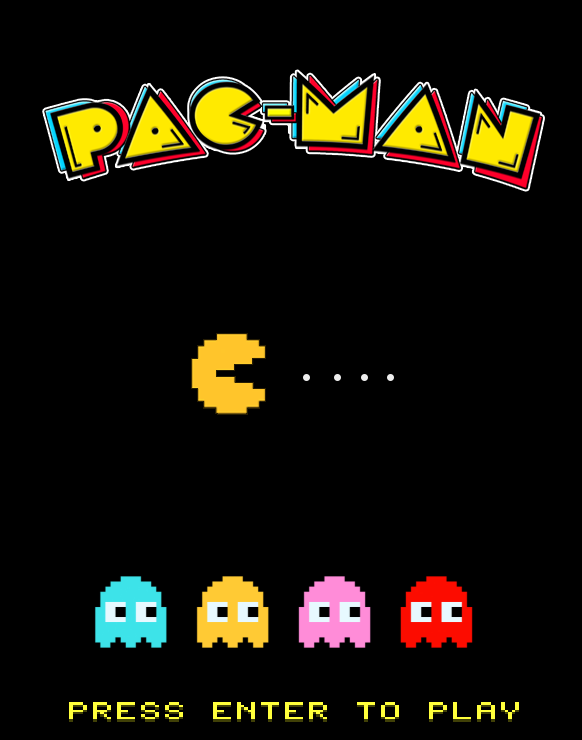
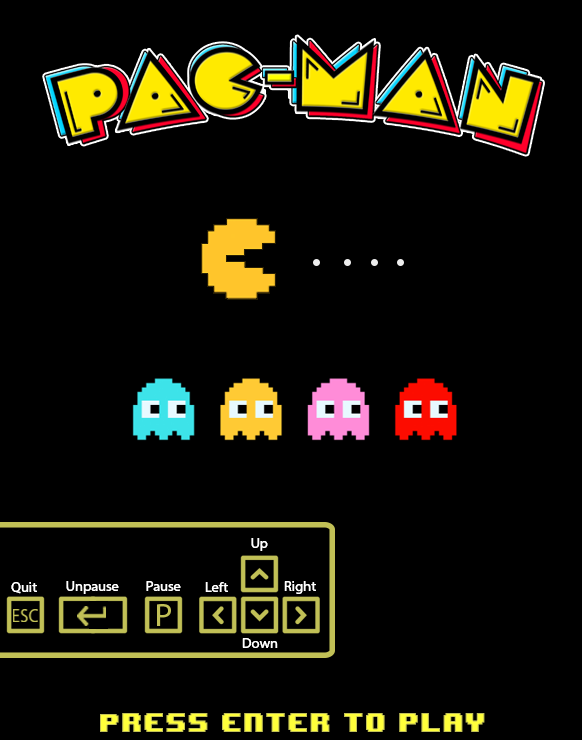
Finished the main menu controls guide

diff --git a/Characters/Pacman.cpp b/Characters/Pacman.cpp
@@ -37,35 +37,35 @@ void Pacman::PickingUpPillHandler(Map &map) {
 
 /**
  * Sets the texture of pacman to correctly show which direction it is traveling.
- * @param srect An array of SDL_Rects that contains the different places in the spritesheet we have to look to get the correct pacman graphic.
+ * @param m_movementSrcRect An array of SDL_Rects that contains the different places in the spritesheet we have to look to get the correct pacman graphic.
  */
-void Pacman::renderCharacter(SDL_Rect srect[]) {
+void Pacman::renderCharacter() {
     m_texture = IMG_LoadTexture(GameManager::renderer, "../Resources/Images/PacManSpriteSheet_20x20.png");
     ///Using a timer to display the correct part of the animation.
     m_timer += GameManager::deltaTime;
     if (m_timer <= 0.1) {
         m_animationNumber = 0;
-        srect[0].x = TILE_SIZE;
-        srect[0].y = TILE_SIZE;
-        srect[0].h = TILE_SIZE;
-        srect[0].w = TILE_SIZE;
+        m_movementSrcRect[0].x = TILE_SIZE;
+        m_movementSrcRect[0].y = TILE_SIZE;
+        m_movementSrcRect[0].h = TILE_SIZE;
+        m_movementSrcRect[0].w = TILE_SIZE;
     } else if (m_timer <= 0.2) {
         m_animationNumber = 1;
-        srect[1].x = 0;
-        srect[1].y = TILE_SIZE;
-        srect[1].h = TILE_SIZE;
-        srect[1].w = TILE_SIZE;
+        m_movementSrcRect[1].x = 0;
+        m_movementSrcRect[1].y = TILE_SIZE;
+        m_movementSrcRect[1].h = TILE_SIZE;
+        m_movementSrcRect[1].w = TILE_SIZE;
     } else if (m_timer <= 0.3) {
         m_animationNumber = 2;
-        srect[2].x = TILE_SIZE * 2;
-        srect[2].y = 0;
-        srect[2].h = TILE_SIZE;
-        srect[2].w = TILE_SIZE;
+        m_movementSrcRect[2].x = TILE_SIZE * 2;
+        m_movementSrcRect[2].y = 0;
+        m_movementSrcRect[2].h = TILE_SIZE;
+        m_movementSrcRect[2].w = TILE_SIZE;
         if (m_timer <= 0.4) {
             m_timer = 0;
         }
     }
-    SDL_RenderCopyEx(GameManager::renderer, m_texture, &srect[m_animationNumber], &m_coordinates, m_angle, &m_center,
+    SDL_RenderCopyEx(GameManager::renderer, m_texture, &m_movementSrcRect[m_animationNumber], &m_coordinates, m_angle, &m_center,
                      SDL_FLIP_NONE);
     SDL_DestroyTexture(m_texture);
 }
@@ -104,51 +104,51 @@ void Pacman::checkMovementInput(Map &map) {
 
 /**
  * Progressively cycles through the death animation of pacman.
- * @param srect An array of SDL_Rects that contains the different places in the spritesheet we have to look to get the correct pacman graphic.
+ * @param m_DeathAnimationRect An array of SDL_Rects that contains the different places in the spritesheet we have to look to get the correct pacman graphic.
  */
-void Pacman::ripPacman(SDL_Rect srect[]) {
+void Pacman::ripPacman() {
     int deathPosition = TILE_SIZE * 10;
     m_texture = IMG_LoadTexture(GameManager::renderer, "../Resources/Images/PacManSpriteSheet_20x20.png");
     ///Using a timer to display the correct part of the animation.
     m_timer += GameManager::deltaTime;
     if (m_timer <= 0) {
         m_animationNumber = 0;
-        srect[0].x = TILE_SIZE * 0;
-        srect[0].y = deathPosition;
-        srect[0].h = TILE_SIZE;
-        srect[0].w = TILE_SIZE;
+        m_DeathSrcRect[0].x = TILE_SIZE * 0;
+        m_DeathSrcRect[0].y = deathPosition;
+        m_DeathSrcRect[0].h = TILE_SIZE;
+        m_DeathSrcRect[0].w = TILE_SIZE;
     } else if (m_timer <= 0.8) {
         m_animationNumber = 1;
-        srect[1].x = TILE_SIZE * 2;
-        srect[1].y = deathPosition;
-        srect[1].h = TILE_SIZE;
-        srect[1].w = TILE_SIZE;
+        m_DeathSrcRect[1].x = TILE_SIZE * 2;
+        m_DeathSrcRect[1].y = deathPosition;
+        m_DeathSrcRect[1].h = TILE_SIZE;
+        m_DeathSrcRect[1].w = TILE_SIZE;
     } else if (m_timer <= 1.6) {
         m_animationNumber = 2;
-        srect[2].x = TILE_SIZE * 4;
-        srect[2].y = deathPosition;
-        srect[2].h = TILE_SIZE;
-        srect[2].w = TILE_SIZE;
+        m_DeathSrcRect[2].x = TILE_SIZE * 4;
+        m_DeathSrcRect[2].y = deathPosition;
+        m_DeathSrcRect[2].h = TILE_SIZE;
+        m_DeathSrcRect[2].w = TILE_SIZE;
     } else if (m_timer <= 2.4) {
         m_animationNumber = 3;
-        srect[3].x = TILE_SIZE * 6;
-        srect[3].y = deathPosition;
-        srect[3].h = TILE_SIZE;
-        srect[3].w = TILE_SIZE;
+        m_DeathSrcRect[3].x = TILE_SIZE * 6;
+        m_DeathSrcRect[3].y = deathPosition;
+        m_DeathSrcRect[3].h = TILE_SIZE;
+        m_DeathSrcRect[3].w = TILE_SIZE;
     } else if (m_timer <= 3.2) {
         m_animationNumber = 4;
-        srect[4].x = TILE_SIZE * 8;
-        srect[4].y = deathPosition;
-        srect[4].h = TILE_SIZE;
-        srect[4].w = TILE_SIZE;
+        m_DeathSrcRect[4].x = TILE_SIZE * 8;
+        m_DeathSrcRect[4].y = deathPosition;
+        m_DeathSrcRect[4].h = TILE_SIZE;
+        m_DeathSrcRect[4].w = TILE_SIZE;
     } else if (m_timer <= 4) {
         m_animationNumber = 5;
-        srect[5].x = TILE_SIZE * 9;
-        srect[5].y = deathPosition;
-        srect[5].h = TILE_SIZE;
-        srect[5].w = TILE_SIZE;
+        m_DeathSrcRect[5].x = TILE_SIZE * 9;
+        m_DeathSrcRect[5].y = deathPosition;
+        m_DeathSrcRect[5].h = TILE_SIZE;
+        m_DeathSrcRect[5].w = TILE_SIZE;
     }
-    SDL_RenderCopy(GameManager::renderer, m_texture, &srect[m_animationNumber], &m_coordinates);
+    SDL_RenderCopy(GameManager::renderer, m_texture, &m_DeathSrcRect[m_animationNumber], &m_coordinates);
     SDL_DestroyTexture(m_texture);
 }
 

diff --git a/Characters/Pacman.h b/Characters/Pacman.h
@@ -7,10 +7,13 @@
 class Pacman : public GameCharacter {
 private:
     int m_points = 0;
-    int m_pacHealth = 1;
+    int m_pacHealth = 3;
     double m_powerUpDuration = 5;
     bool m_lastLife = false;
 
+    ///animation Source rects for pacman
+    SDL_Rect m_movementSrcRect[3];
+    SDL_Rect m_DeathSrcRect[6];
 
     ///Angle is used to rotate the picture we use as texture to correctly display the direction the character is moving.
     double m_angle = 0;
@@ -25,11 +28,9 @@ public:
 
     void PickingUpPillHandler(Map &map);
 
-    void renderCharacter(SDL_Rect *srect) override;
-
     void checkMovementInput(Map &map);
 
-    void ripPacman(SDL_Rect *srect);
+    void ripPacman();
 
     void moveToStartPos();
 
@@ -43,6 +44,7 @@ public:
 
     SDL_Rect *getCoords() { return &m_coordinates; }
 
+    void renderCharacter();
 };
 
 

diff --git a/Managers/GameManager.cpp b/Managers/GameManager.cpp
@@ -91,7 +91,7 @@ void GameManager::render() {
 
     m_textManager.displayPoints(m_pacman.getPoints());
     m_level->drawMap();
-    m_pacman.renderCharacter(m_srect);
+    m_pacman.renderCharacter();
 
     for (const auto &ghost: m_ghosts) {
         ghost->renderCharacter(m_pacman);
@@ -153,9 +153,9 @@ void GameManager::gameOverState() {
     SDL_SetRenderDrawColor(renderer, 0, 0, 0, 0);
     m_level->drawMap();
     if (m_timer <= 5) {
-        m_pacman.ripPacman(m_deathRect);
+        m_pacman.ripPacman();
         SDL_RenderPresent(renderer);
-    } else if (m_timer > 5 && m_timer <= 8) {
+    } else if (m_timer > 5 && m_timer <= 20) {
         m_textManager.displayGameOverText(m_pacmanWon);
         SDL_RenderPresent(renderer);
     } else {

diff --git a/Managers/GameManager.h b/Managers/GameManager.h
@@ -29,9 +29,6 @@ private:
     RenderManager renderManager;
     TextManager m_textManager= TextManager("../Resources/Fonts/8-BIT.TTF", 1 * TILE_SIZE,{255, 255, 0, 255});
     SoundManager m_soundManager;
-    ///animation Source rects for pacman
-    SDL_Rect m_srect[3];
-    SDL_Rect m_deathRect[6];
     std::chrono::high_resolution_clock::time_point m_lastFrame = std::chrono::high_resolution_clock::now();
     int m_gameState = 1;
     double m_timer = 0;

diff --git a/Map.cpp b/Map.cpp
@@ -6,7 +6,7 @@ Map::Map(const char *filePath) {
 }
 
 void Map::loadMap(const char *filePath) {
-    Tile tmp("../Resources/Images/Pacman_Tileset_Pink_20x20.png");
+    Tile tmp("../Resources/Images/Pacman_Tileset_20x20.png");
     int currentTileValue, xAxisOfTileset, yAxisOfTileset;
     std::ifstream input(filePath); ///Our mainLevel.txt file
     if (!input.is_open()) {

diff --git a/Characters/GameCharacter.h b/Characters/GameCharacter.h
@@ -39,9 +39,7 @@ public:
 
     GameCharacter(int xs, int ys, int speed);
 
-    void setDirection(direction dir);
-
-    virtual void renderCharacter(SDL_Rect srect[]) {};
+    virtual void renderCharacter() {};
 
     void characterHandler(Map &map);
 };

diff --git a/Characters/GameCharacter.cpp b/Characters/GameCharacter.cpp
@@ -18,8 +18,3 @@ void GameCharacter::characterHandler(Map &map){
     ///Collision Handling
     m_collisionManager.collisionHandling(map,m_coordinates,m_direction);
 }
-
-void GameCharacter::setDirection(direction dir) {
-    m_direction = dir;
-}
-
